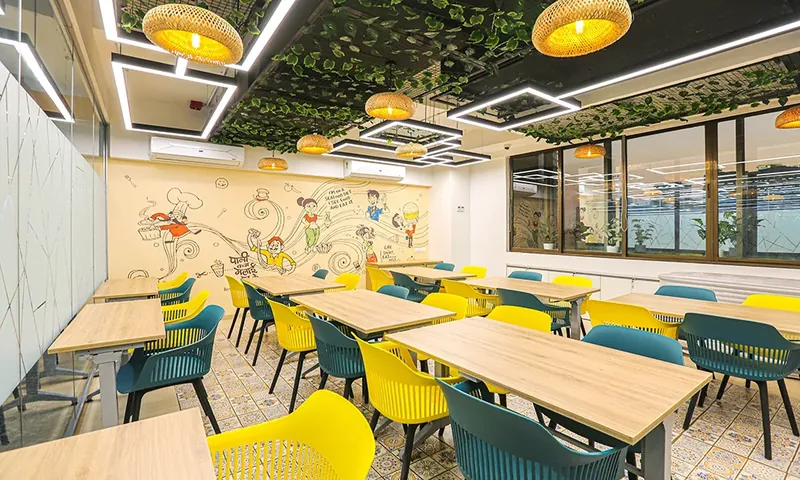
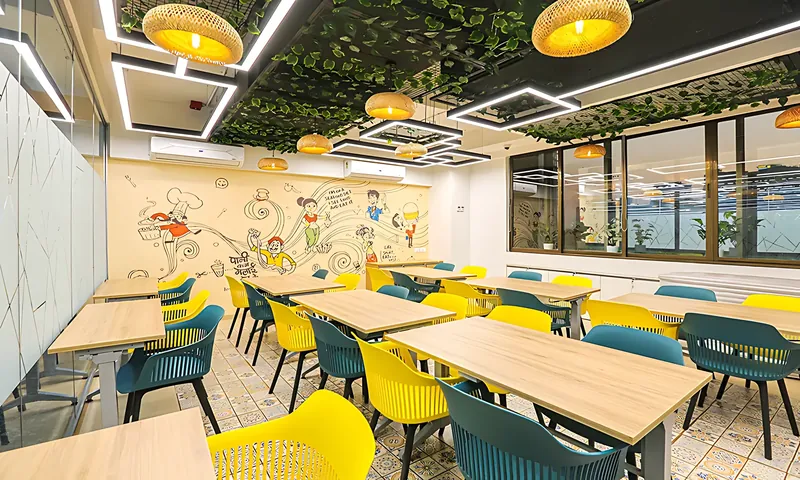
Homepage: upscaled door, turnkey, Sun, sofa and Scorpio photos
Same file names; lighter 480w/800w versions regenerated; width/height and
srcset sizes updated. Homepage mobile Lighthouse stays at 94.

Claude-Session: https://claude.ai/code/session_01ELdwAKhBt2vqUy2cJdKuWJ

diff --git a/index.html b/index.html
@@ -217,14 +217,14 @@
                   <p class="wh-slide-name">Scorpio Group</p>
                   <p class="wh-slide-meta">Corporate headquarters · Mumbai<br>12,500 sq.ft · 90 days</p>
                 </div>
-                <a class="wh-frow-media" href="projects/scorpio.html" tabindex="-1" aria-hidden="true"><img data-src="images/scorpio.webp" data-srcset="images/scorpio-800.webp 800w, images/scorpio.webp 1000w" sizes="(max-width: 860px) 92vw, 460px" alt="Scorpio Group interior by Wood Works Studio" decoding="async" loading="lazy" draggable="false" /></a>
+                <a class="wh-frow-media" href="projects/scorpio.html" tabindex="-1" aria-hidden="true"><img data-src="images/scorpio.webp" data-srcset="images/scorpio-800.webp 800w, images/scorpio.webp 1600w" sizes="(max-width: 860px) 92vw, 460px" alt="Scorpio Group interior by Wood Works Studio" decoding="async" loading="lazy" draggable="false" /></a>
               </div>
               <div class="wh-frow" role="group" aria-roledescription="slide" aria-label="3 of 4" data-href="projects/sun-pharma.html">
                 <div class="wh-frow-text">
                   <p class="wh-slide-name">Sun Pharmaceuticals</p>
                   <p class="wh-slide-meta">Corporate office · Mumbai<br>20,000 sq.ft · 60 days</p>
                 </div>
-                <a class="wh-frow-media" href="projects/sun-pharma.html" tabindex="-1" aria-hidden="true"><img data-src="images/sun.webp" data-srcset="images/sun-800.webp 800w, images/sun.webp 1000w" sizes="(max-width: 860px) 92vw, 460px" alt="Sun Pharmaceuticals interior by Wood Works Studio" decoding="async" loading="lazy" draggable="false" /></a>
+                <a class="wh-frow-media" href="projects/sun-pharma.html" tabindex="-1" aria-hidden="true"><img data-src="images/sun.webp" data-srcset="images/sun-800.webp 800w, images/sun.webp 1600w" sizes="(max-width: 860px) 92vw, 460px" alt="Sun Pharmaceuticals interior by Wood Works Studio" decoding="async" loading="lazy" draggable="false" /></a>
               </div>
               <div class="wh-frow" role="group" aria-roledescription="slide" aria-label="4 of 4" data-href="projects/muthoot.html">
                 <div class="wh-frow-text">
@@ -259,7 +259,7 @@
     <section class="wh-create" id="services" aria-labelledby="wh-create-title">
       <p class="wh-create-lede wh-in" id="wh-create-title">We will create for you</p>
       <div class="wh-words">
-      <a class="wh-line wh-in" style="--d:0.00s" href="#contact" data-service="Turnkey Interiors"><h2>Turnkey <span class="wh-glue">Interiors<span class="wh-chip wide after"><img loading="lazy" decoding="async" src="images/turnkey.webp" srcset="images/turnkey-480.webp 480w, images/turnkey.webp 1024w" sizes="(max-width: 860px) 200px, 320px" alt="" /></span></span></h2><span class="wh-line-cta">Get a free estimate →</span></a>
+      <a class="wh-line wh-in" style="--d:0.00s" href="#contact" data-service="Turnkey Interiors"><h2>Turnkey <span class="wh-glue">Interiors<span class="wh-chip wide after"><img loading="lazy" decoding="async" src="images/turnkey.webp" srcset="images/turnkey-480.webp 480w, images/turnkey.webp 1600w" sizes="(max-width: 860px) 200px, 320px" alt="" /></span></span></h2><span class="wh-line-cta">Get a free estimate →</span></a>
       <a class="wh-line wh-in" style="--d:0.06s" href="#contact" data-service="Space Planning"><h2><span class="wh-glue"><span class="wh-chip pill before"><img loading="lazy" decoding="async" src="images/space.webp" srcset="images/space-480.webp 480w, images/space.webp 1600w" sizes="(max-width: 860px) 200px, 320px" alt="" /></span>Space</span> Planning</h2><span class="wh-line-cta">Get a free estimate →</span></a>
       <a class="wh-line wh-in" style="--d:0.12s" href="#contact" data-service="Furniture &amp; Décor"><h2>Furniture &amp; <span class="wh-glue">Décor<span class="wh-chip wide after"><img loading="lazy" decoding="async" src="images/furniture1.webp" srcset="images/furniture1-480.webp 480w, images/furniture1.webp 1600w" sizes="(max-width: 860px) 200px, 320px" alt="" /></span></span></h2><span class="wh-line-cta">Get a free estimate →</span></a>
       <a class="wh-line wh-in" style="--d:0.18s" href="#contact" data-service="Renovation"><h2><span class="wh-glue"><span class="wh-chip r before"><img loading="lazy" decoding="async" src="images/house.webp" srcset="images/house-480.webp 480w, images/house.webp 1600w" sizes="(max-width: 860px) 200px, 320px" alt="" /></span>Renovation</span></h2><span class="wh-line-cta">Get a free estimate →</span></a>
@@ -607,7 +607,7 @@
 
     <!-- SECTION 5: contact -->
     <section id="contact" class="wc" aria-labelledby="wc-title" data-no-parallax>
-      <div class="wc-col wc-col-a" aria-hidden="true"><div class="wc-track"><figure style="--h:380px;--w:190px"><img src="images/turnkey.webp" srcset="images/turnkey-480.webp 480w, images/turnkey.webp 1024w" sizes="(max-width: 860px) 200px, 320px" alt="" loading="lazy" decoding="async" /></figure><figure style="--h:300px;--w:110px"><img src="images/bed3.webp" alt="" loading="lazy" decoding="async" /></figure><figure style="--h:240px;--w:170px"><img src="images/furniture1.webp" srcset="images/furniture1-480.webp 480w, images/furniture1.webp 1600w" sizes="(max-width: 860px) 200px, 320px" alt="" loading="lazy" decoding="async" /></figure><figure style="--h:340px;--w:120px"><img src="images/counter2.webp" alt="" loading="lazy" decoding="async" /></figure><figure style="--h:380px;--w:190px"><img src="images/turnkey.webp" srcset="images/turnkey-480.webp 480w, images/turnkey.webp 1024w" sizes="(max-width: 860px) 200px, 320px" alt="" loading="lazy" decoding="async" /></figure><figure style="--h:300px;--w:110px"><img src="images/bed3.webp" alt="" loading="lazy" decoding="async" /></figure><figure style="--h:240px;--w:170px"><img src="images/furniture1.webp" srcset="images/furniture1-480.webp 480w, images/furniture1.webp 1600w" sizes="(max-width: 860px) 200px, 320px" alt="" loading="lazy" decoding="async" /></figure><figure style="--h:340px;--w:120px"><img src="images/counter2.webp" alt="" loading="lazy" decoding="async" /></figure></div></div>
+      <div class="wc-col wc-col-a" aria-hidden="true"><div class="wc-track"><figure style="--h:380px;--w:190px"><img src="images/turnkey.webp" srcset="images/turnkey-480.webp 480w, images/turnkey.webp 1600w" sizes="(max-width: 860px) 200px, 320px" alt="" loading="lazy" decoding="async" /></figure><figure style="--h:300px;--w:110px"><img src="images/bed3.webp" alt="" loading="lazy" decoding="async" /></figure><figure style="--h:240px;--w:170px"><img src="images/furniture1.webp" srcset="images/furniture1-480.webp 480w, images/furniture1.webp 1600w" sizes="(max-width: 860px) 200px, 320px" alt="" loading="lazy" decoding="async" /></figure><figure style="--h:340px;--w:120px"><img src="images/counter2.webp" alt="" loading="lazy" decoding="async" /></figure><figure style="--h:380px;--w:190px"><img src="images/turnkey.webp" srcset="images/turnkey-480.webp 480w, images/turnkey.webp 1600w" sizes="(max-width: 860px) 200px, 320px" alt="" loading="lazy" decoding="async" /></figure><figure style="--h:300px;--w:110px"><img src="images/bed3.webp" alt="" loading="lazy" decoding="async" /></figure><figure style="--h:240px;--w:170px"><img src="images/furniture1.webp" srcset="images/furniture1-480.webp 480w, images/furniture1.webp 1600w" sizes="(max-width: 860px) 200px, 320px" alt="" loading="lazy" decoding="async" /></figure><figure style="--h:340px;--w:120px"><img src="images/counter2.webp" alt="" loading="lazy" decoding="async" /></figure></div></div>
       <div class="wc-center">
         <div class="wc-head">
           <p class="wc-eyebrow">Free design estimate</p>

diff --git a/gallery.html b/gallery.html
@@ -133,7 +133,7 @@
           <div class="gx-proj-cap"><div><p class="gx-proj-type">Airport lounge</p><h3 class="gx-proj-name">Cathay Pacific</h3></div><p class="gx-proj-meta">18,200 sq.ft · 90 days<span class="gx-proj-go">View <svg viewBox="0 0 22 10" aria-hidden="true"><path d="M0 5h20M16 1l4 4-4 4" fill="none" stroke="currentColor" stroke-width="1.2"/></svg></span></p></div>
         </a>
         <a class="gx-proj is-5 gx-rv" href="projects/scorpio.html">
-          <div class="gx-proj-media"><img src="images/scorpio.webp" srcset="images/scorpio-800.webp 800w, images/scorpio.webp 1000w" sizes="(max-width: 860px) 92vw, 58vw" alt="Scorpio Group headquarters by Wood Works Studio" width="1000" height="600" loading="lazy" decoding="async" /></div>
+          <div class="gx-proj-media"><img src="images/scorpio.webp" srcset="images/scorpio-800.webp 800w, images/scorpio.webp 1600w" sizes="(max-width: 860px) 92vw, 58vw" alt="Scorpio Group headquarters by Wood Works Studio" width="1600" height="960" loading="lazy" decoding="async" /></div>
           <div class="gx-proj-cap"><div><p class="gx-proj-type">Corporate headquarters</p><h3 class="gx-proj-name">Scorpio Group</h3></div><p class="gx-proj-meta">12,500 sq.ft · 90 days<span class="gx-proj-go">View <svg viewBox="0 0 22 10" aria-hidden="true"><path d="M0 5h20M16 1l4 4-4 4" fill="none" stroke="currentColor" stroke-width="1.2"/></svg></span></p></div>
         </a>
         <a class="gx-proj is-5 is-low gx-rv" href="projects/muthoot.html">
@@ -141,7 +141,7 @@
           <div class="gx-proj-cap"><div><p class="gx-proj-type">Branch office</p><h3 class="gx-proj-name">Muthoot Finance</h3></div><p class="gx-proj-meta">12,000 sq.ft · 90 days<span class="gx-proj-go">View <svg viewBox="0 0 22 10" aria-hidden="true"><path d="M0 5h20M16 1l4 4-4 4" fill="none" stroke="currentColor" stroke-width="1.2"/></svg></span></p></div>
         </a>
         <a class="gx-proj is-7 is-low gx-rv" href="projects/sun-pharma.html">
-          <div class="gx-proj-media"><img src="images/sun.webp" srcset="images/sun-800.webp 800w, images/sun.webp 1000w" sizes="(max-width: 860px) 92vw, 58vw" alt="Sun Pharmaceuticals office by Wood Works Studio" width="1000" height="600" loading="lazy" decoding="async" /></div>
+          <div class="gx-proj-media"><img src="images/sun.webp" srcset="images/sun-800.webp 800w, images/sun.webp 1600w" sizes="(max-width: 860px) 92vw, 58vw" alt="Sun Pharmaceuticals office by Wood Works Studio" width="1600" height="960" loading="lazy" decoding="async" /></div>
           <div class="gx-proj-cap"><div><p class="gx-proj-type">Corporate office</p><h3 class="gx-proj-name">Sun Pharmaceuticals</h3></div><p class="gx-proj-meta">20,000 sq.ft · 60 days<span class="gx-proj-go">View <svg viewBox="0 0 22 10" aria-hidden="true"><path d="M0 5h20M16 1l4 4-4 4" fill="none" stroke="currentColor" stroke-width="1.2"/></svg></span></p></div>
         </a>
       </section>
@@ -166,7 +166,7 @@
         </div>
         <div class="gx-mosaic" data-gx-mosaic aria-live="polite">
           <figure class="gx-tile" data-cat="wardrobe"><img src="images/wardrobe1.webp" alt="Custom wardrobe by Wood Works Studio" width="747" height="951" loading="lazy" decoding="async" /><figcaption>Custom wardrobe</figcaption></figure>
-          <figure class="gx-tile" data-cat="sofa"><img src="images/sofa1.webp" alt="Custom sofa by Wood Works Studio" width="1024" height="934" loading="lazy" decoding="async" /><figcaption>Custom sofa</figcaption></figure>
+          <figure class="gx-tile" data-cat="sofa"><img src="images/sofa1.webp" alt="Custom sofa by Wood Works Studio" width="1200" height="1094" loading="lazy" decoding="async" /><figcaption>Custom sofa</figcaption></figure>
           <figure class="gx-tile" data-cat="bed"><img src="images/bed1.webp" alt="Custom bed by Wood Works Studio" width="902" height="707" loading="lazy" decoding="async" /><figcaption>Custom bed</figcaption></figure>
           <figure class="gx-tile" data-cat="table"><img src="images/table1.webp" alt="Custom table by Wood Works Studio" width="1024" height="941" loading="lazy" decoding="async" /><figcaption>Custom table</figcaption></figure>
           <figure class="gx-tile" data-cat="counter"><img src="images/counter1.webp" alt="Kitchen counter by Wood Works Studio" width="1024" height="632" loading="lazy" decoding="async" /><figcaption>Kitchen counter</figcaption></figure>
@@ -186,7 +186,7 @@
           <figure class="gx-tile" data-cat="bed"><img src="images/bed3.webp" alt="Custom bed by Wood Works Studio" width="747" height="935" loading="lazy" decoding="async" /><figcaption>Custom bed</figcaption></figure>
           <figure class="gx-tile" data-cat="table"><img src="images/table3.webp" alt="Custom table by Wood Works Studio" width="1024" height="702" loading="lazy" decoding="async" /><figcaption>Custom table</figcaption></figure>
           <figure class="gx-tile" data-cat="counter"><img src="images/counter3.webp" alt="Kitchen counter by Wood Works Studio" width="747" height="900" loading="lazy" decoding="async" /><figcaption>Kitchen counter</figcaption></figure>
-          <figure class="gx-tile" data-cat="door"><img src="images/door3.webp" alt="Wooden door by Wood Works Studio" width="448" height="834" loading="lazy" decoding="async" /><figcaption>Wooden door</figcaption></figure>
+          <figure class="gx-tile" data-cat="door"><img src="images/door3.webp" alt="Wooden door by Wood Works Studio" width="750" height="1397" loading="lazy" decoding="async" /><figcaption>Wooden door</figcaption></figure>
           <figure class="gx-tile" data-cat="tv"><img src="images/tv3.webp" alt="TV unit by Wood Works Studio" width="965" height="448" loading="lazy" decoding="async" /><figcaption>TV unit</figcaption></figure>
           <figure class="gx-tile" data-cat="vanity"><img src="images/vanity3.webp" alt="Bathroom vanity by Wood Works Studio" width="1024" height="941" loading="lazy" decoding="async" /><figcaption>Bathroom vanity</figcaption></figure>
           <figure class="gx-tile" data-cat="wardrobe"><img src="images/wardrobe4.webp" alt="Custom wardrobe by Wood Works Studio" width="891" height="747" loading="lazy" decoding="async" /><figcaption>Custom wardrobe</figcaption></figure>
